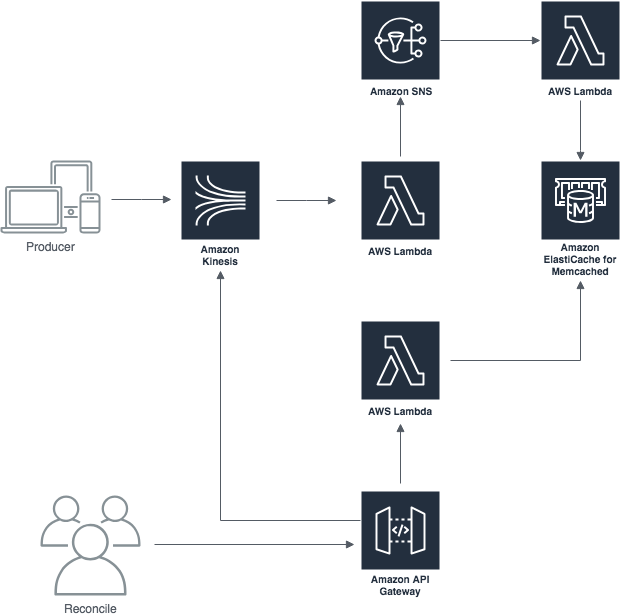
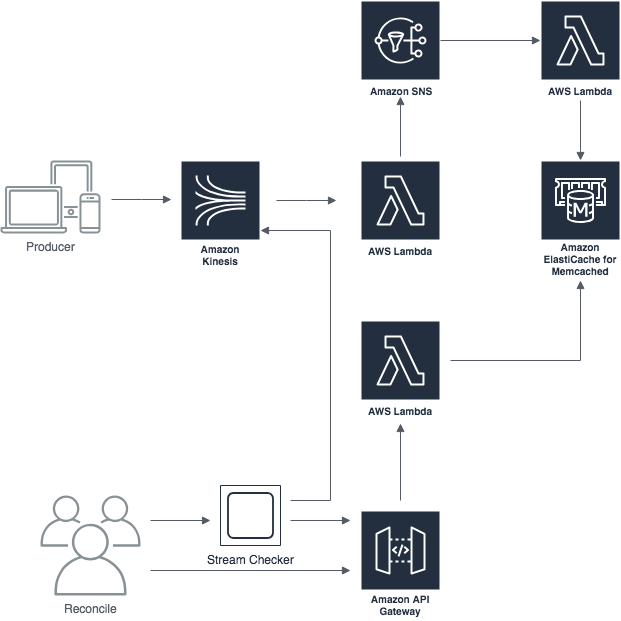
documentation clean up

diff --git a/readme.md b/readme.md
@@ -1,6 +1,6 @@
 # streamwreck
 
-Reconcile the records processed from a stream from those written to a stream.
+Reconcile the records processed from a stream against those written to a stream.
 
 ## Overview
 
@@ -10,7 +10,23 @@ The following diagram shows the solution components.
 
 In this pattern, a producer application writes events to a Kinesis stream, which are processed by a lambda function. The lambda function publishes an event indicating the record was processed. Another lambda which is subscribed to the 'event processed' topic writes an entry to ElastiCache for each stream record processed, using the sequence number to identity the record. Another lambda implements a simple API that takes an array of sequence numbers and indicates in its response any that have not been recorded as being processed in ElastiCache.
 
-To reconsole the stream events with the processed events, a client can read the records from the stream, call the reconcilliation API, and determine which have events have not been processed.
+To reconcile the stream events with the processed events, a client can read the records from the stream, call the reconcilliation API, and determine which have events have not been processed.
+
+This project provides:
+
+* Cloud formation to instantiate all the infrastructure needed to exercise this pattern
+* A lambda function to simulate processing of events from the stream, producing notifications of processed records (the stream processor lambda). For this sample, Kinesis records evenly divisible by 5 are skipped, thus leaving unprocessed records that can be identified via the reconcilliation process.
+* A lambda function that subscribes to the SNS notification topic, which records the processed records as key/value pairs in Elasticache (notified lambda).
+* An API that takes a list of Kinesis sequence numbers and indicates which of those have not been processed (checker lambda). This API does a lookup of each record in Kinesis, using the sequence number as key.
+* An executable process that reads the sequence numbers in the stream from the TRIM_HORIZON and calls the checker API to determine if they've been processed or not (stream checker)
+
+## Limitations
+
+There are likely several, but most notable is the use of the bare Kinesis sequence number as the look up key - these are only unique within a shard, so this example would need to be enhanced to reliably work in a multishard implementation (i.e. the real world).
+
+## Alternatives
+
+Many ways to do this - a simpler solution would be to write s3 objects into date partitioned folders instead of elasticache. You could also write records of what was processed into redshift, and do a firehose from the stream into redshift and reconcile records using a query. Or go s3 and use Athena to query, or...
 
 ## Notes
 
@@ -90,3 +106,4 @@ go run streamchecker/main.go --stream WreakStream-Dev --endpoint https://hyqj92k
 ## TODOs
 
 * redo API to use Api resource not function with http event
+* export the relevant api gateway resources to avoid having to look up the endpoint via cli calls
